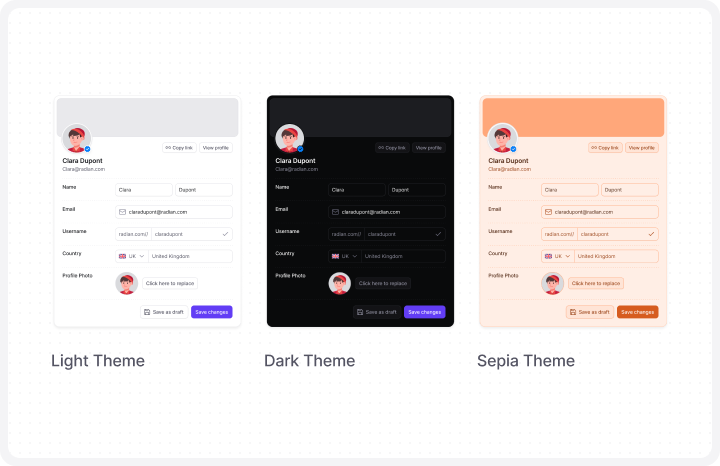
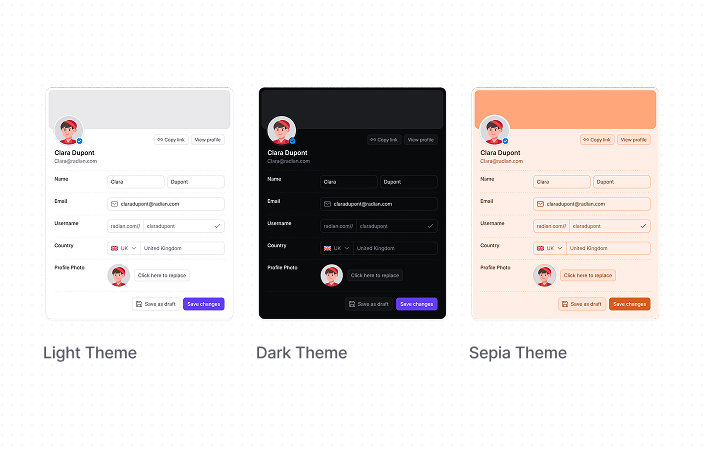
fix: theme playground

diff --git a/apps/website/src/css/website.css b/apps/website/src/css/website.css
@@ -18,151 +18,6 @@
 	}
 }
 
-:root,
-[data-theme="light"] {
-	--color-primary: oklch(0.528 0.2539 282.58);
-	--color-primary-accent: oklch(0.94 0.0271 295.05);
-	--color-primary-focus: oklch(0.9169 0.0383 295.46);
-	--color-primary-hover: oklch(0.5768 0.2279 286.25);
-	--color-primary-text: oklch(0.4304 0.202 282.82);
-
-	/* success */
-	--color-success: oklch(0.6334 0.171 148.65);
-	--color-success-accent: oklch(0.9685 0.0336 157.66);
-	--color-success-focus: oklch(0.9489 0.0556 156.34);
-	--color-success-hover: oklch(0.6901 0.1748 149.64);
-	--color-success-text: oklch(0.5388 0.1339 149.74);
-
-	/* error */
-	--color-error: oklch(0.64 0.22 26.04);
-	--color-error-accent: oklch(0.9465 0.0252 17.61);
-	--color-error-focus: oklch(0.9133 0.0414 17.93);
-	--color-error-hover: oklch(0.6786 0.2095 24.66);
-	--color-error-text: oklch(0.5716 0.2125 27.27);
-
-	/* warning */
-	--color-warning: oklch(0.8016 0.1705 73.27);
-	--color-warning-accent: oklch(0.9622 0.0384 83.83);
-	--color-warning-focus: oklch(0.946 0.0574 85.03);
-	--color-warning-hover: oklch(0.8342 0.1594 79.51);
-	--color-warning-text: oklch(0.5461 0.1088 77.73);
-
-	/* information */
-	--color-info: oklch(0.6092 0.2041 255.8);
-	--color-info-accent: oklch(0.949 0.0213 245.85);
-	--color-info-focus: oklch(0.9135 0.0358 249.52);
-	--color-info-hover: oklch(0.6722 0.1615 251.56);
-	--color-info-text: oklch(0.4663 0.1065 251.21);
-
-	/* background */
-	--color-bg: oklch(1 0 0);
-	--color-fill1: oklch(0.9824 0.0013 286.38);
-	--color-fill2: oklch(0.9677 0.0027 286.35);
-	--color-fill3: oklch(0.9349 0.004 286.32);
-	--color-fill4: oklch(0.902 0.0068 286.26);
-
-	/* foreground */
-	--color-fg: oklch(0.2314 0.0078 274.6);
-	--color-fg-secondary: oklch(0.4515 0.0243 285.39);
-	--color-fg-tertiary: oklch(0.6261 0.0268 285.6);
-	--color-fg-disabled: oklch(0.8352 0.011 286.16);
-	--color-fg-inverse: oklch(1 0 0);
-
-	/* border */
-	--color-border: oklch(0.902 0.0068 286.26);
-	--color-alpha: color-mix(in srgb, oklch(0.1452 0.0021 286.13), transparent 88%);
-	--color-soft: oklch(0.9349 0.004 286.32);
-	--color-soft-alpha: color-mix(in srgb, oklch(0.1452 0.0021 286.13), transparent 92%);
-
-	/* background elevation */
-	--color-elevation-negative: oklch(0.9677 0.0027 286.35);
-	--color-elevation-level1: oklch(1 0 0);
-	--color-elevation-level2: oklch(1 0 0);
-
-	/* inverse */
-	--color-white-inverse: oklch(1 0 0);
-	--color-black-inverse: oklch(0.144 0.0028 247.09);
-
-	/* background fill alpha */
-	--color-fill1-alpha: color-mix(in srgb, oklch(0.1452 0.0021 286.13), transparent 98%);
-	--color-fill2-alpha: color-mix(in srgb, oklch(0.1452 0.0021 286.13), transparent 96%);
-	--color-fill3-alpha: color-mix(in srgb, oklch(0.1452 0.0021 286.13), transparent 92%);
-	--color-fill4-alpha: color-mix(in srgb, oklch(0.1452 0.0021 286.13), transparent 88%);
-}
-
-/* Dark theme */
-.dark,
-[data-theme="dark"] {
-	--color-primary: oklch(0.528 0.2539 282.58);
-	--color-primary-accent: oklch(0.2294 0.0753 289.19);
-	--color-primary-focus: oklch(0.2538 0.1064 285.61);
-	--color-primary-hover: oklch(0.5768 0.2279 286.25);
-	--color-primary-text: oklch(0.7757 0.1162 292.43);
-
-	/* success */
-	--color-success: oklch(0.6334 0.171 148.65);
-	--color-success-accent: oklch(0.271 0.0537 151.74);
-	--color-success-focus: oklch(0.3887 0.0924 150.55);
-	--color-success-hover: oklch(0.6901 0.1748 149.64);
-	--color-success-text: oklch(0.871 0.1501 153.14);
-
-	/* error */
-	--color-error: oklch(0.64 0.22 26.04);
-	--color-error-accent: oklch(0.2567 0.0648 22.77);
-	--color-error-focus: oklch(0.2973 0.0922 24.71);
-	--color-error-hover: oklch(0.6786 0.2095 24.66);
-	--color-error-text: oklch(0.7884 0.1226 20.19);
-
-	/* warning */
-	--color-warning: oklch(0.8016 0.1705 73.27);
-	--color-warning-accent: oklch(0.2663 0.0372 84.34);
-	--color-warning-focus: oklch(0.3744 0.0636 81.14);
-	--color-warning-hover: oklch(0.8342 0.1594 79.51);
-	--color-warning-text: oklch(0.8776 0.1255 82.88);
-
-	/* information */
-	--color-info: oklch(0.6092 0.2041 255.8);
-	--color-info-accent: oklch(0.2739 0.0462 248.76);
-	--color-info-focus: oklch(0.3147 0.0668 250.78);
-	--color-info-hover: oklch(0.6722 0.1615 251.56);
-	--color-info-text: oklch(0.829 0.0811 248.83);
-
-	/* background */
-	--color-bg: oklch(0.144 0.0028 247.09);
-	--color-fill1: oklch(0.1652 0.0062 285.7);
-	--color-fill2: oklch(0.1881 0.006 285.81);
-	--color-fill3: oklch(0.2314 0.0078 274.6);
-	--color-fill4: oklch(0.2738 0.0093 276.77);
-
-	/* foreground */
-	--color-fg: oklch(1 0 0);
-	--color-fg-secondary: oklch(0.6619 0.0235 285.74);
-	--color-fg-tertiary: oklch(0.5553 0.0292 285.41);
-	--color-fg-disabled: oklch(0.4515 0.0243 285.39);
-	--color-fg-inverse: oklch(0.2314 0.0078 274.6);
-
-	/* border */
-	--color-border: oklch(0.2738 0.0093 276.77);
-	--color-alpha: color-mix(in srgb, oklch(1 0 0), transparent 88%);
-	--color-soft: oklch(0.2314 0.0078 274.6);
-	--color-soft-alpha: color-mix(in srgb, oklch(1 0 0), transparent 92%);
-
-	/* background elevation */
-	--color-elevation-negative: oklch(0 0 0);
-	--color-elevation-level1: oklch(0.1881 0.006 285.81);
-	--color-elevation-level2: oklch(0.2314 0.0078 274.6);
-
-	/* inverse */
-	--color-white-inverse: oklch(0.144 0.0028 247.09);
-	--color-black-inverse: oklch(1 0 0);
-
-	/* background fill alpha */
-	--color-fill1-alpha: color-mix(in srgb, oklch(1 0 0), transparent 98%);
-	--color-fill2-alpha: color-mix(in srgb, oklch(1 0 0), transparent 96%);
-	--color-fill3-alpha: color-mix(in srgb, oklch(1 0 0), transparent 92%);
-	--color-fill4-alpha: color-mix(in srgb, oklch(1 0 0), transparent 88%);
-}
-
 .dark {
 	--color-hero-fade-gradient-from: hsla(260, 6%, 10%, 0);
 	--color-hero-fade-gradient-to: hsla(260, 6%, 10%, 1);

diff --git a/apps/website/src/components/theme/custom-theme-playground.tsx b/apps/website/src/components/theme/custom-theme-playground.tsx
@@ -5,6 +5,107 @@ import { SwatchBook } from "lucide-react"
 import CommonCard from "@/components/common/common-card"
 import { Select, SelectContent, SelectItem, SelectTrigger, SelectValue } from "@/registry/ui/select"
 
+// Convert to proper CSS custom properties format
+const lightThemeVars = {
+	"--color-primary": "oklch(0.528 0.2539 282.58)",
+	"--color-primary-accent": "oklch(0.94 0.0271 295.05)",
+	"--color-primary-focus": "oklch(0.9169 0.0383 295.46)",
+	"--color-primary-hover": "oklch(0.5768 0.2279 286.25)",
+	"--color-primary-text": "oklch(0.4304 0.202 282.82)",
+
+	"--color-success": "oklch(0.6334 0.171 148.65)",
+	"--color-success-accent": "oklch(0.9685 0.0336 157.66)",
+	"--color-success-focus": "oklch(0.9489 0.0556 156.34)",
+	"--color-success-hover": "oklch(0.6901 0.1748 149.64)",
+	"--color-success-text": "oklch(0.5388 0.1339 149.74)",
+
+	"--color-error": "oklch(0.64 0.22 26.04)",
+	"--color-error-accent": "oklch(0.9465 0.0252 17.61)",
+	"--color-error-focus": "oklch(0.9133 0.0414 17.93)",
+	"--color-error-hover": "oklch(0.6786 0.2095 24.66)",
+	"--color-error-text": "oklch(0.5716 0.2125 27.27)",
+
+	"--color-warning": "oklch(0.8016 0.1705 73.27)",
+	"--color-warning-accent": "oklch(0.9622 0.0384 83.83)",
+	"--color-warning-focus": "oklch(0.946 0.0574 85.03)",
+	"--color-warning-hover": "oklch(0.8342 0.1594 79.51)",
+	"--color-warning-text": "oklch(0.5461 0.1088 77.73)",
+
+	"--color-info": "oklch(0.6092 0.2041 255.8)",
+	"--color-info-accent": "oklch(0.949 0.0213 245.85)",
+	"--color-info-focus": "oklch(0.9135 0.0358 249.52)",
+	"--color-info-hover": "oklch(0.6722 0.1615 251.56)",
+	"--color-info-text": "oklch(0.4663 0.1065 251.21)",
+
+	"--color-bg": "oklch(1 0 0)",
+	"--color-fill1": "oklch(0.9824 0.0013 286.38)",
+	"--color-fill2": "oklch(0.9677 0.0027 286.35)",
+	"--color-fill3": "oklch(0.9349 0.004 286.32)",
+	"--color-fill4": "oklch(0.902 0.0068 286.26)",
+
+	"--color-fg": "oklch(0.2314 0.0078 274.6)",
+	"--color-fg-secondary": "oklch(0.4515 0.0243 285.39)",
+	"--color-fg-tertiary": "oklch(0.6261 0.0268 285.6)",
+	"--color-fg-disabled": "oklch(0.8352 0.011 286.16)",
+	"--color-fg-inverse": "oklch(1 0 0)",
+
+	"--color-border": "oklch(0.902 0.0068 286.26)",
+	"--color-soft": "oklch(0.9349 0.004 286.32)",
+	"--color-elevation-negative": "oklch(0.9677 0.0027 286.35)",
+	"--color-elevation-level1": "oklch(1 0 0)",
+	"--color-elevation-level2": "oklch(1 0 0)",
+} as React.CSSProperties
+
+const darkThemeVars = {
+	"--color-primary": "oklch(0.528 0.2539 282.58)",
+	"--color-primary-accent": "oklch(0.2294 0.0753 289.19)",
+	"--color-primary-focus": "oklch(0.2538 0.1064 285.61)",
+	"--color-primary-hover": "oklch(0.5768 0.2279 286.25)",
+	"--color-primary-text": "oklch(0.7757 0.1162 292.43)",
+
+	"--color-success": "oklch(0.6334 0.171 148.65)",
+	"--color-success-accent": "oklch(0.271 0.0537 151.74)",
+	"--color-success-focus": "oklch(0.3887 0.0924 150.55)",
+	"--color-success-hover": "oklch(0.6901 0.1748 149.64)",
+	"--color-success-text": "oklch(0.871 0.1501 153.14)",
+
+	"--color-error": "oklch(0.64 0.22 26.04)",
+	"--color-error-accent": "oklch(0.2567 0.0648 22.77)",
+	"--color-error-focus": "oklch(0.2973 0.0922 24.71)",
+	"--color-error-hover": "oklch(0.6786 0.2095 24.66)",
+	"--color-error-text": "oklch(0.7884 0.1226 20.19)",
+
+	"--color-warning": "oklch(0.8016 0.1705 73.27)",
+	"--color-warning-accent": "oklch(0.2663 0.0372 84.34)",
+	"--color-warning-focus": "oklch(0.3744 0.0636 81.14)",
+	"--color-warning-hover": "oklch(0.8342 0.1594 79.51)",
+	"--color-warning-text": "oklch(0.8776 0.1255 82.88)",
+
+	"--color-info": "oklch(0.6092 0.2041 255.8)",
+	"--color-info-accent": "oklch(0.2739 0.0462 248.76)",
+	"--color-info-focus": "oklch(0.3147 0.0668 250.78)",
+	"--color-info-hover": "oklch(0.6722 0.1615 251.56)",
+	"--color-info-text": "oklch(0.829 0.0811 248.83)",
+
+	"--color-bg": "oklch(0.144 0.0028 247.09)",
+	"--color-fill1": "oklch(0.1652 0.0062 285.7)",
+	"--color-fill2": "oklch(0.1881 0.006 285.81)",
+	"--color-fill3": "oklch(0.2314 0.0078 274.6)",
+	"--color-fill4": "oklch(0.2738 0.0093 276.77)",
+
+	"--color-fg": "oklch(1 0 0)",
+	"--color-fg-secondary": "oklch(0.6619 0.0235 285.74)",
+	"--color-fg-tertiary": "oklch(0.5553 0.0292 285.41)",
+	"--color-fg-disabled": "oklch(0.4515 0.0243 285.39)",
+	"--color-fg-inverse": "oklch(0.2314 0.0078 274.6)",
+
+	"--color-border": "oklch(0.2738 0.0093 276.77)",
+	"--color-soft": "oklch(0.2314 0.0078 274.6)",
+	"--color-elevation-negative": "oklch(0 0 0)",
+	"--color-elevation-level1": "oklch(0.1881 0.006 285.81)",
+	"--color-elevation-level2": "oklch(0.2314 0.0078 274.6)",
+} as React.CSSProperties
+
 const CustomThemePlayground = () => {
 	const [theme, setTheme] = React.useState<"light" | "dark">("light")
 
@@ -21,8 +122,14 @@ const CustomThemePlayground = () => {
 				</SelectContent>
 			</Select>
 
-			{/* Isolated theme container */}
-			<div data-theme={theme} style={{ isolation: "isolate" }} className="bg-elevation-negative border-soft flex gap-4 rounded-2xl border p-3">
+			<div
+				className="flex gap-4 rounded-2xl border p-3"
+				style={{
+					...(theme === "light" ? lightThemeVars : darkThemeVars),
+					backgroundColor: "var(--color-elevation-negative)",
+					borderColor: "var(--color-soft)",
+					color: "var(--color-fg)",
+				}}>
 				<CommonCard />
 			</div>
 		</div>

diff --git a/apps/website/src/components/theme/theme-elevation-card.tsx b/apps/website/src/components/theme/theme-elevation-card.tsx
@@ -1,0 +1,33 @@
+import React from "react"
+
+const ThemeElevationCard = () => {
+	const cards = [
+		{ label: "2", color: "bg-yellow-50", offset: 0 },
+		{ label: "1", color: "bg-yellow-100", offset: 30 }, // Increased from 6
+		{ label: "base", color: "bg-yellow-200", offset: 60 }, // Increased from 12
+		{ label: "-1", color: "bg-yellow-300", offset: 90 }, // Increased from 18
+	]
+
+	return (
+		<div className="bg-fill2 flex h-80 gap-4 rounded-xl p-4">
+			<div className="bg-bg relative flex h-full w-1/2 items-center justify-center">
+				{cards.map((card, idx) => (
+					<div
+						key={idx}
+						className={`absolute h-20 w-20 border ${card.color} flex items-center justify-center rounded-md`}
+						style={{
+							top: `calc(50% + ${card.offset}px - 40px)`,
+							left: "50%",
+							transform: "translateX(-50%) rotate(45deg)",
+							zIndex: cards.length - idx,
+						}}>
+						{card.label}
+					</div>
+				))}
+			</div>
+			<div className="flex w-1/2 items-center justify-center bg-green-300">dark</div>
+		</div>
+	)
+}
+
+export default ThemeElevationCard

diff --git a/apps/website/src/css/globals.css b/apps/website/src/css/globals.css
@@ -3,7 +3,7 @@
 @import "tw-animate-css";
 @import "./website.css";
 
-@custom-variant dark (&:is(.dark *, [data-theme="dark"] *));
+@custom-variant dark (&:is(.dark *));
 
 @theme {
 	/* primary */
